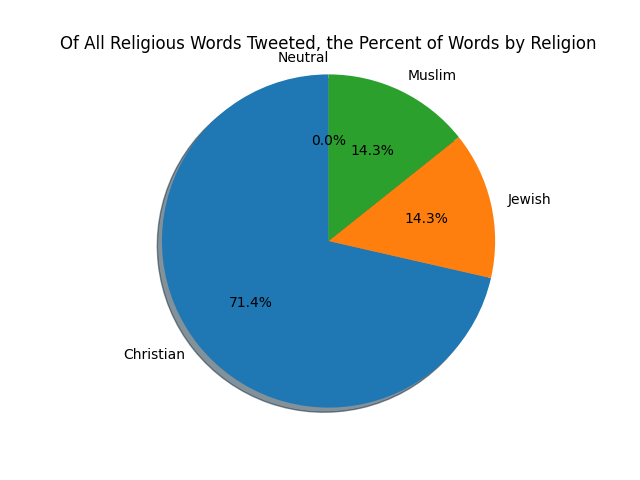
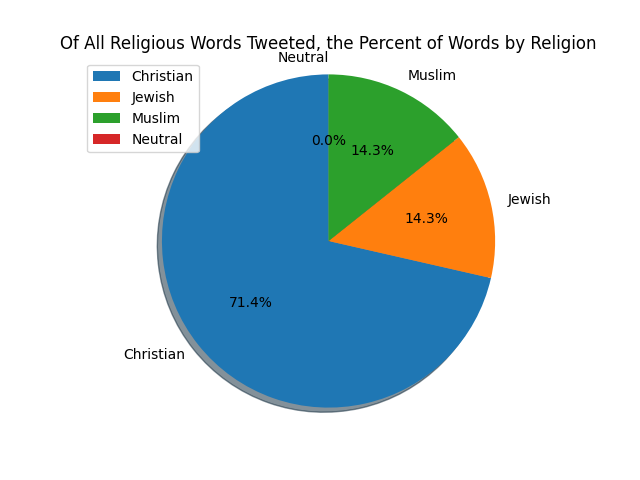
religion table css

Changed region(s): [[0.125, 0.125, 0.3125, 0.3438]]

diff --git a/app/templates/search.html b/app/templates/search.html
@@ -5,6 +5,8 @@
   <link rel="stylesheet" href="/static/search_style.css">
   <link rel="stylesheet" href="/static/main.css">
   <script type="text/javascript" href="/static/javascript.js"></script>
+  <title>COVID-19 Politicians</title>
+  <link rel="icon" href="/static/images/title_icon.png" type="image/title_icon.png">
 </head>
 
 <body>
@@ -121,8 +123,10 @@
 
   <img id="sent-plot" class="center" src="../static/images/{{state}}_sent_plot1.png" alt="Comment Sentiment Plot" />
 
-  <img id="sent-plot" class="center" src="../static/images/{{state}}_religion_plot.png" alt="Religion Plot" />
-  <table style="width:20%">
+<div class="religion-parent">
+  <img class="religion-child" id="sent-plot" class="center" src="../static/images/{{state}}_religion_plot.png" alt="Religion Plot" />
+  {% if religion_data|length != 0 %}
+  <table class="religion-child" id="religion-table" style="width:20%">
     <tr>
       <th>Religion</th>
       <th>Number of Mentions</th>
@@ -143,6 +147,9 @@
       <td>Neutral</td>
       <td>{{religion_data[3][1]}}</td>
     </tr>
+  </table>
+  {% else %} {% endif %}
+</div>
 </body>
 
 </html>

diff --git a/app/static/search_style.css b/app/static/search_style.css
@@ -65,6 +65,16 @@ th, td {
   padding: 10px;
 }
 
-#img-table {
-  position: absolute;
+.religion-parent {
+  padding: 20px;
+}
+
+.religion-child {
+  width: 50%;
+  float: left;
+}
+
+#religion-table{
+  margin-top: 150px;
+  margin-left: 50px;
 }

diff --git a/app/irsystem/controllers/make_religion_plots.py b/app/irsystem/controllers/make_religion_plots.py
@@ -9,11 +9,12 @@ def make_religion_plot(state, religion_lis):
     # explode = (0, 0.1, 0, 0)  # only "explode" the 2nd slice (i.e. 'Hogs')
 
     fig, ax1 = plt.subplots()
-    ax1.pie(sizes, labels=labels, autopct='%1.1f%%',
+    ax1.pie(sizes, autopct='%1.1f%%',
             shadow=True, startangle=90)
     ax1.axis('equal')  # Equal aspect ratio ensures that pie is drawn as a circle.
     plt.title('Of All Religious Words Tweeted, the Percent of Words by Religion')
 
+    plt.legend(labels, loc="best")
     link = 'app/static/images/' + state + '_religion_plot.png'
 
     fig.savefig(link)

diff --git a/app/irsystem/controllers/search_controller.py b/app/irsystem/controllers/search_controller.py
@@ -37,7 +37,6 @@ def search():
 		output_data.append(("First Mention Date: ", results[0][0]))
 		output_data.append(("Percentage of all tweets with direct mentions: ", str(round(results[1],1)) + "%"))
 		output_data.append(("Mention of Social Distance: ", results[2]))
-		output_data.append(("Relgion Dictionary: ", results[3]))
 
 		religion_data = results[3]
 		#output data looks like
